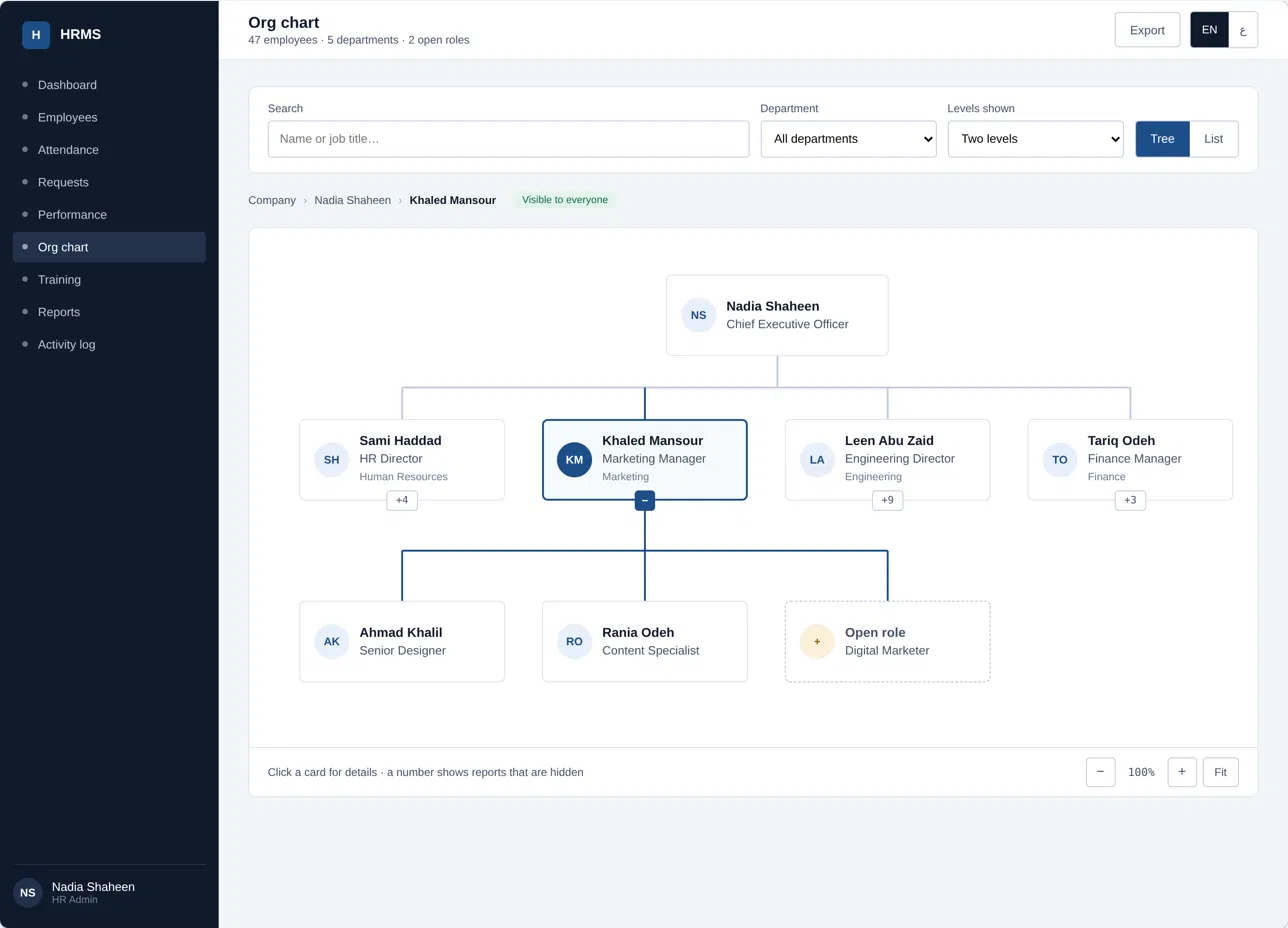
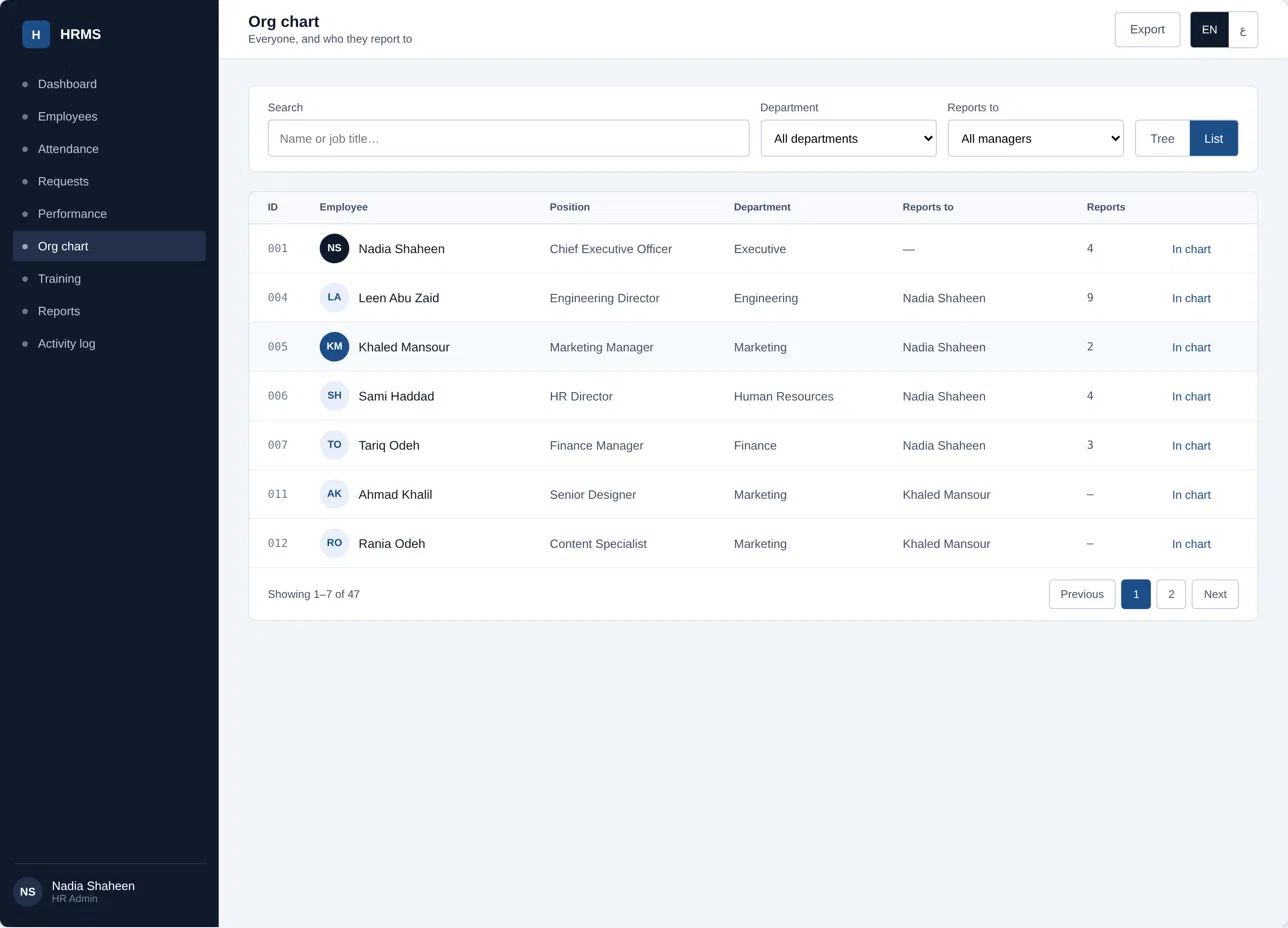
docs: document the org chart and the security hardening work
Update the route, table and migration counts, add the org chart and token rotation rules, and expand the Git workflow with the identity and recovery commands.

diff --git a/README.md b/README.md
@@ -109,6 +109,10 @@ College of Information Technology and Computer Engineering · Department of IT a
 <td><img src="docs/screenshots/application-detail.png" alt="Application detail" /><p align="center"><em>تفاصيل طلب التوظيف والسيرة الذاتية</em></p></td>
 <td><img src="docs/screenshots/tasks.png" alt="Tasks" /><p align="center"><em>إدارة المهام</em></p></td>
 </tr>
+<tr>
+<td><img src="docs/screenshots/org-chart.webp" alt="Org chart tree view" /><p align="center"><em>الهيكل التنظيمي — عرض الشجرة</em></p></td>
+<td><img src="docs/screenshots/org-chart-list.webp" alt="Org chart list view" /><p align="center"><em>الهيكل التنظيمي — عرض القائمة</em></p></td>
+</tr>
 </table>
 
 ---
@@ -200,23 +204,6 @@ College of Information Technology and Computer Engineering · Department of IT a
 <img src="docs/screenshots/components.png" width="700" alt="Component library" />
 <p><em>مكتبة المكوّنات: الألوان، الخطوط، الأزرار، الحقول، الجداول، والشارات</em></p>
 </div>
-
----
-
-### 🧩 الهيكل التنظيمي
-
-<div align="center">
-<img src="docs/screenshots/org-chart.png" width="860" alt="Org chart tree view" />
-<p><em>عرض الشجرة — بحث، فلترة بالقسم، وتحكم بعدد المستويات المعروضة</em></p>
-</div>
-
-<div align="center">
-<img src="docs/screenshots/org-chart-list.png" width="860" alt="Org chart list view" />
-<p><em>عرض القائمة — نفس البيانات كجدول قابل للبحث والفلترة بالمدير، مع ترقيم</em></p>
-</div>
-
-> الشاشة بتعرض الاسم والمسمى الوظيفي والقسم وعدد المرؤوسين — وبس. لا راتب ولا تقييم ولا رصيد إجازات.
-> والعرضان من راوتين: `GET /org-chart` للشجرة و`GET /org-chart/list` للجدول.
 
 ---
 
